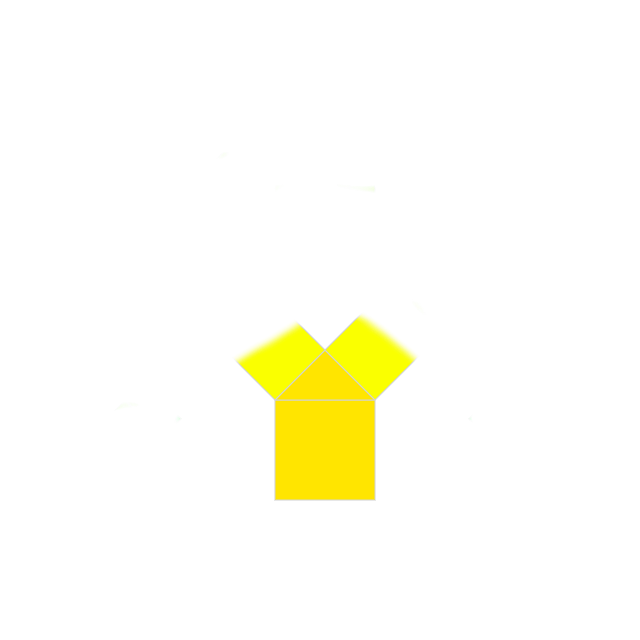
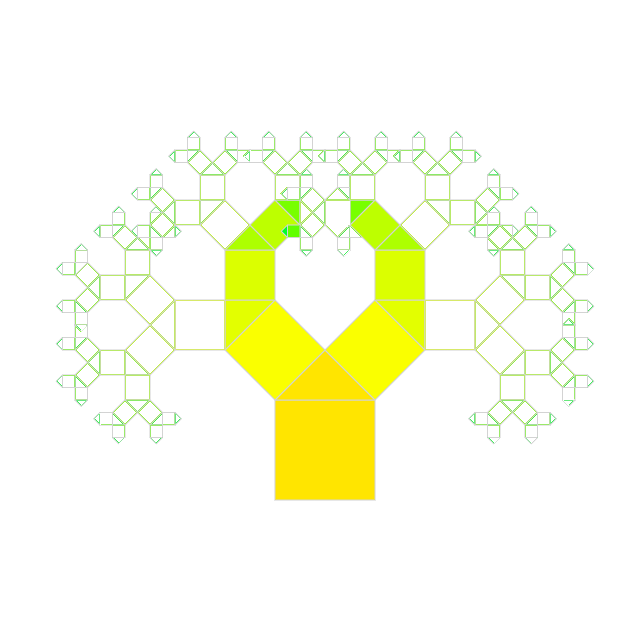
Updated

diff --git a/tree-growing-clock-face/app/index.js b/tree-growing-clock-face/app/index.js
@@ -40,8 +40,11 @@ const activeGoal = userActivity.goals.activeMinutes;
 let myClock = document.getElementById("myLabel");
 let myDate = document.getElementById("myDate");
 let dailysteps = document.getElementById("mySteps");
+let comment = document.getElementById("comment");
 let img = document.getElementById("testing");
-let startCount = userActivity.today.adjusted["steps"] || 0;
+// let startCount = userActivity.today.adjusted["steps"] || 0;
+let startCount = 0;
+let amountSteps = 0;
 console.log(stepsGoal);
 
 function applyTheme(background, foreground) {
@@ -52,22 +55,25 @@ function applyTheme(background, foreground) {
 
 function updateStats() {
   const metricSteps = "steps";  // distance, calories, elevationGain, activeMinutes
-  const amountSteps = userActivity.today.adjusted[metricSteps] || 0;
+  // const amountSteps = userActivity.today.adjusted[metricSteps] || 0;
   const metricCals = "calories";  // distance, calories, elevationGain, activeMinutes
   const amountCals = userActivity.today.adjusted[metricCals] || 0;
   const metricActive = "activeMinutes";
   const amountActive = userActivity.today.adjusted[metricActive] || 0;
   const metricElevation = "elevationGain";
   const amountElevation = userActivity.today.adjusted[metricElevation] || 0;
-  
+  const goal = 5000;
+  const map  = {0: "All the best for your goal!", 1: "All the best for your goal!", 2: "Good luck for your goal!", 3: "Still lot of it left.", 4: "Still lot of it left.", 5: "Reached half of goal", 6: "Reached half of goal", 7: "Good! You doing great", 8: "Good! You doing great", 9: " Very little left", 10: "Great Job today!"};
+
+  amountSteps += Math.floor((Math.random() * 200) + 1);
   dailysteps.text = amountSteps;
-  
-  let fileNum = Math.round((amountSteps - startCount)/10)
-  console.log((1 + fileNum).toString() + ".png");
-  if(fileNum <= 10) {
-    img.href = (1 + fileNum).toString() + ".png";
-  } else {
+  let fileNum = Math.floor(((amountSteps - startCount)/goal) * 10)
+  if(fileNum < 10) {
+    img.href = (fileNum).toString() + ".png";
+    comment.text = map[fileNum];
+  }  else {
     img.href = "10.png";
+    comment.text = map[10];
   }
 }
 
@@ -108,19 +114,3 @@ clock.ontick = () => updateClock();
 // Don't start with a blank screen
 applyTheme(backgdcol, foregdcol);
 updateClock();
-
-messaging.peerSocket.onopen = () => {
-  console.log("App Socket Open");
-}
-
-messaging.peerSocket.close = () => {
-  console.log("App Socket Closed");
-}
-
-// Listen for the onmessage event
-messaging.peerSocket.onmessage = function(evt) {
-  console.log("device got: " + evt.data.background);
-  applyTheme(evt.data.background, evt.data.foreground);
-  let json_theme = {"backg": evt.data.background, "foreg": evt.data.foreground};
-  fs.writeFileSync("theme.txt", json_theme, "json");
-}
